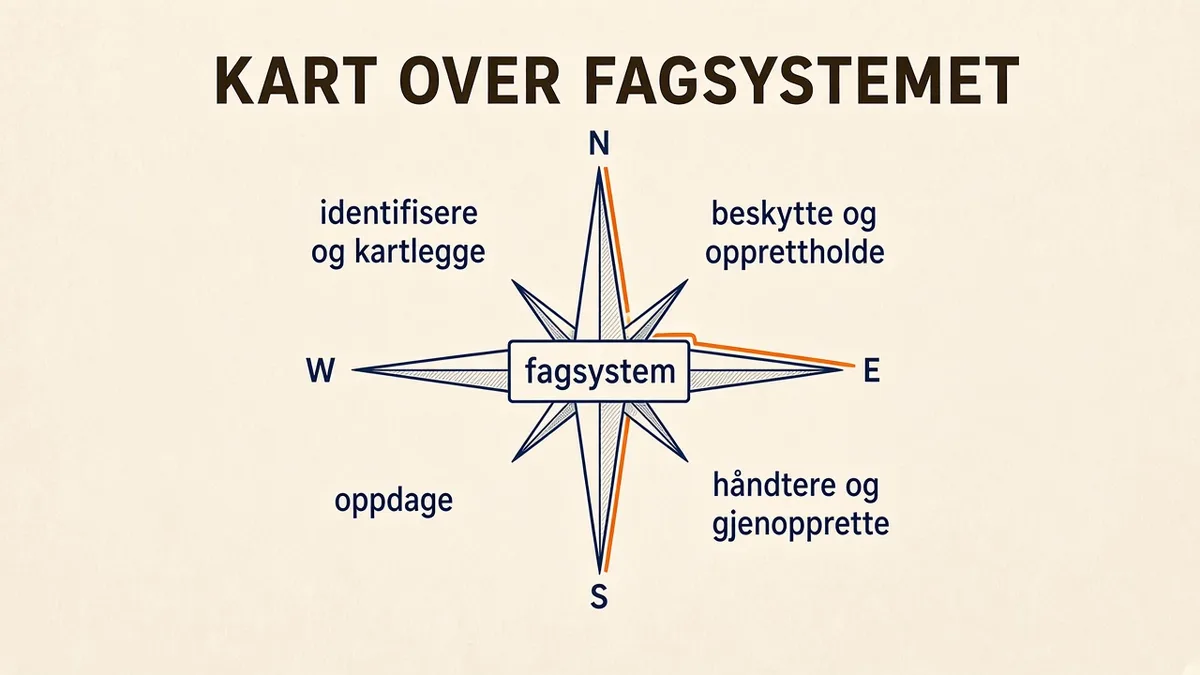
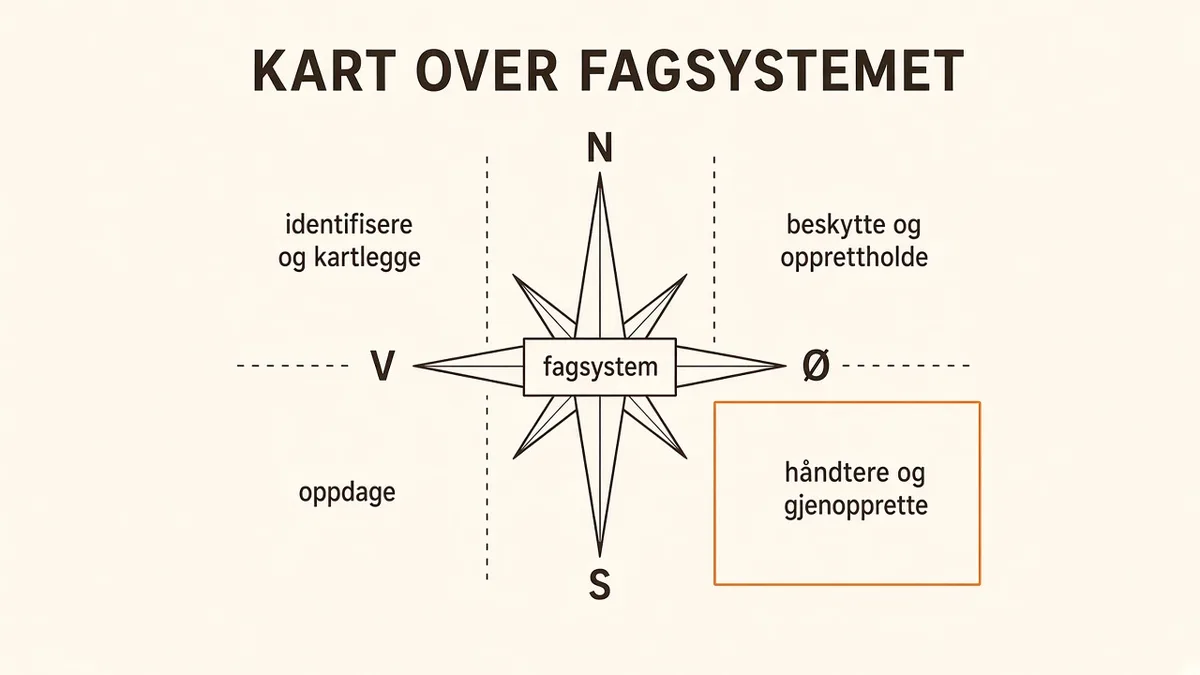
R1: NSM blog cover compass labels and copy tweaks
Regenerate cream cover with Norwegian compass points (N, Ø, S, V).
Align coverAlt with the image, and passive kart-oppdatering wording.

diff --git a/src/content/blog/2026-10-25-nsms-grunnprinsipper-kart-over-et-fagsystem.md b/src/content/blog/2026-10-25-nsms-grunnprinsipper-kart-over-et-fagsystem.md
@@ -8,7 +8,7 @@ author: "Ibrahim Rahmani"
 role: "Grunnlegger, Xala Technologies"
 tag: "Arkitekt"
 cover: "/images/blog/nsms-grunnprinsipper-kart-over-et-fagsystem.webp"
-coverAlt: "Kompassrose med fagsystemet i midten og fire felt: identifisere og kartlegge, beskytte og opprettholde, oppdage, håndtere og gjenopprette"
+coverAlt: "Infografikk på kremfarget bakgrunn: kompassrose med N, Ø, S og V, fagsystem i midten og fire felt merket identifisere og kartlegge, beskytte og opprettholde, oppdage, og håndtere og gjenopprette. Overskrift «KART OVER FAGSYSTEMET»."
 keywords:
   - NSMs grunnprinsipper
   - grunnprinsipper
@@ -87,7 +87,7 @@ Tegnet på at det mangler: gjenoppretting står i avtalen, men har aldri vært p
 
 Et kart som var riktig ved lansering, blir feil ved første endring. Dokumentasjon som holdes ved like, er det som gjør kartet brukbart etter et år i drift. Det er også det som gjør exit uten innlåsing mulig, fordi en ny leverandør kan lese hva som finnes.
 
-Oppdater kartet som en del av hver endring, ikke som en egen øvelse.
+Kartet oppdateres som en del av hver endring, ikke som en egen øvelse.
 
 Kartet er et arbeidsdokument, ikke et vedlegg.
 
